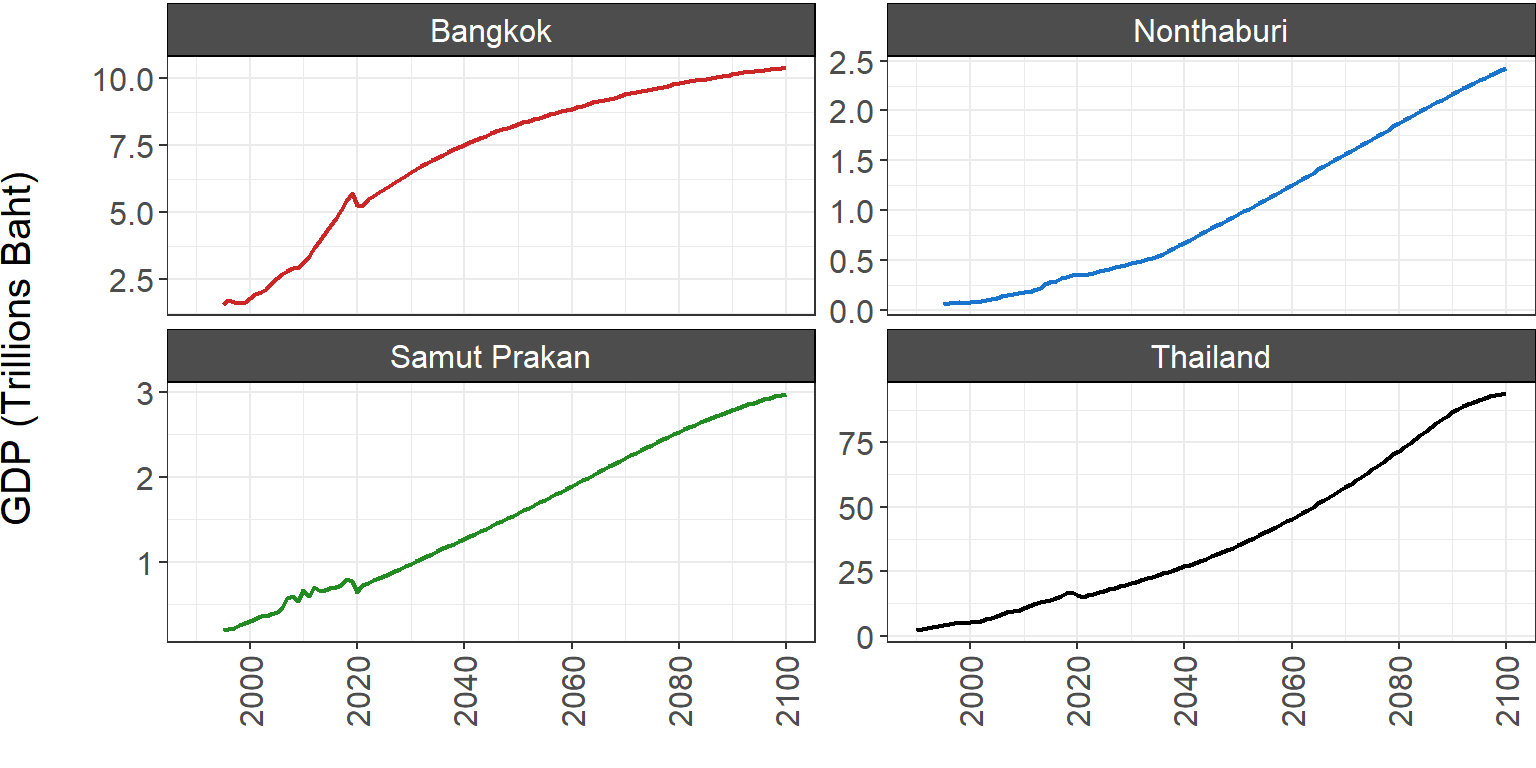
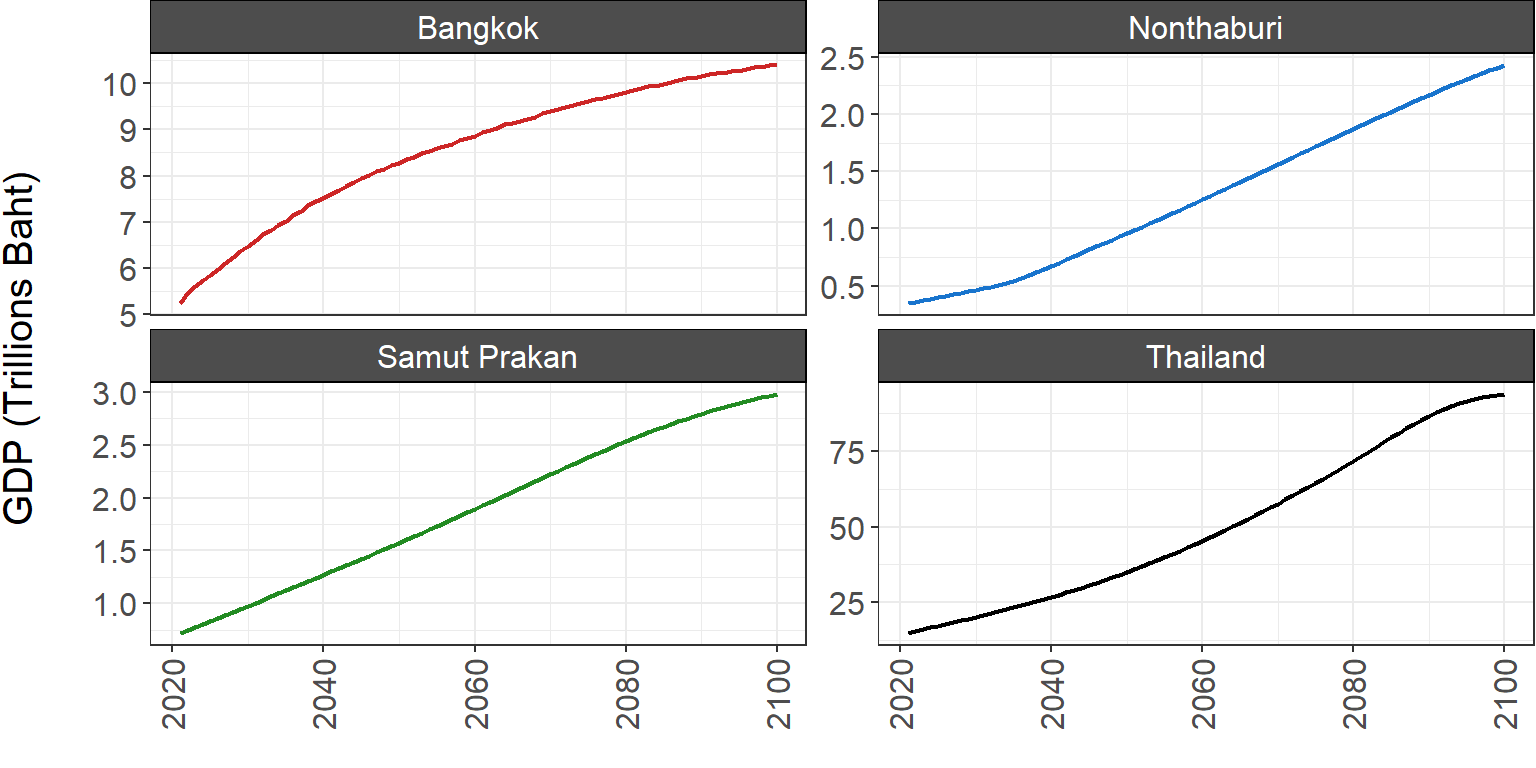
updating webpage Thailand

diff --git a/webpage/_site/thailand.html b/webpage/_site/thailand.html
@@ -546,11 +546,11 @@ td, th {
 <h2 number="5.2"><span class="header-section-number">5.2</span> Extended National Policies</h2>
 <!-------------------------->
 <p><strong>Extended National Policies Scenario:</strong> This scenario includes additional sustainable development measures that have been implemented in other countries and regions along vwith the plans and policies in the National Policies scenario. These include more aggresive power transitions, enhanced energy and emissions regulations, and economic incentives. The table below summarizes the additional policies incorporated in the Extended National Policies scenario. Note that this scenario also incorporates the national policies included in the Mandatory National Policies scenario.</p>
-<table style="width:76%;">
+<table style="width:75%;">
 <caption>Table 5.2.1. Policies included in the Extended National Policies scenario.</caption>
 <colgroup>
 <col width="31%" />
-<col width="44%" />
+<col width="43%" />
 </colgroup>
 <thead>
 <tr class="header">
@@ -562,23 +562,23 @@ td, th {
 <tr class="odd">
 <td>Energy Supply</td>
 <td><ul>
-<li>Power Development Plan 2018-2037 (bound capacity + target capacity)</li>
-<li>Renewable and Alternative Energy Development Plan 2018-2037 (bound capacity + target capacity)</li>
+<li>Increased RE and CCS</li>
+<li>Coal and gas development constraints</li>
 </ul></td>
 </tr>
 <tr class="even">
 <td>Transportation</td>
 <td><ul>
-<li>Measures to promote EV use</li>
-<li>Eco-driving promotion</li>
-<li>Public transit expansion Electric Vehicle Roadmap to increase electric proportion of vehicles in manufacturing</li>
+<li>Enhanced vehicle emissions standards</li>
+<li>Electric vehicle subsidies</li>
+<li>Fuel Economy Standards</li>
 </ul></td>
 </tr>
 <tr class="odd">
 <td>Buildings &amp; Industry</td>
 <td><ul>
-<li>Voluntary energy efficiency labeling</li>
-<li>Subsidies for equipment upgrades</li>
+<li>Enhanced Building Energy Codes</li>
+<li>Enhanced Minimum Energy Performance Standards</li>
 </ul></td>
 </tr>
 </tbody>
@@ -893,11 +893,18 @@ td, th {
 </div>
 <div id="future-projections-1" class="section level4 unnumbered">
 <h4 class="unnumbered">Future Projections</h4>
-<p>To project future GDP and GPP, we used a combination of NESDB projections and other assumptions. For GDP, NESDB has provided a projection through 2050 in Thailand’s Long Term Plan (LTP). Beyond 2050, we made an assumption that per capita GDP would reach 52,000 USD (at the 2005 price) by 2100 based on historical trajectories of several developed countries. We assumed that GPP future trajectories would vary between provinces, with Bangkok’s per capita GDP reaching around 70,000 USD (at the 2005 price) by 2100, consistent with income ranges of some high income cities at present. The plots below show estimated GDP and GPP from 1990 to 2100 based on these assumptions.</p>
+<p>To project future GDP and GPP, we used a combination of NESDB projections and other assumptions. For GDP, NESDB has provided a projection through 2050 in Thailand’s Long Term Plan (LTP). Beyond 2050, we made an assumption that per capita GDP would reach 52,000 USD (at the 2005 price) by 2100 based on historical trajectories of several developed countries. We assumed that GPP future trajectories would vary between provinces, with Bangkok’s per capita GDP reaching around 70,000 USD (at the 2005 price) by 2100, consistent with income ranges of some high income cities at present. The plots below show estimated GDP and GPP in THB from 2021 to 2100 based on these assumptions, as well as GDP/GPP growth rates during this period.</p>
 <div class="figure" style="text-align: center">
-<img src="thailand_files/figure-html/historical%20&%20future%20trends%20gdp%20baht-1.png" alt="Figure 9.1.2.3. **Historical and projected future GDP in Thailand and GPP in the MEA provinces.**" width="75%" />
+<img src="thailand_files/figure-html/historical%20&%20future%20trends%20gdp%20baht-1.png" alt="Figure 9.1.2.3. **Projected future GDP in Thailand and GPP in the MEA provinces.**" width="75%" />
 <p class="caption">
-Figure 9.1.2.3. <strong>Historical and projected future GDP in Thailand and GPP in the MEA provinces.</strong>
+Figure 9.1.2.3. <strong>Projected future GDP in Thailand and GPP in the MEA provinces.</strong>
+</p>
+</div>
+<p><br> <br></p>
+<div class="figure" style="text-align: center">
+<img src="thailand_files/figure-html/historical%20&%20future%20trends%20gdp%20growth%20rate%20baht-1.png" alt="Figure 9.1.2.4. **Projected future growth rates of GDP in Thailand and GPP in the MEA provinces.**" width="75%" />
+<p class="caption">
+Figure 9.1.2.4. <strong>Projected future growth rates of GDP in Thailand and GPP in the MEA provinces.</strong>
 </p>
 </div>
 <!-------------------------->
@@ -929,11 +936,18 @@ Figure 9.1.3.1. <strong>Per capita GDP from 1990 to 2019 at current market price
 </div>
 <div id="future-projections-2" class="section level4 unnumbered">
 <h4 class="unnumbered">Future Projections</h4>
-<p>The plot below shows per capita GDP/GPP from 1990 to 2100 for each region.</p>
+<p>The plot below shows per capita GDP/GPP (THB) and growth rates from 1990 to 2100 for each region.</p>
 <div class="figure" style="text-align: center">
-<img src="thailand_files/figure-html/historical%20&%20future%20trends%20pcgdp%20baht-1.png" alt="**Figure 9.1.3.3. Per capita GDP/GPP through 2100 in each region**" width="75%" />
+<img src="thailand_files/figure-html/future%20%20pcgdp%20baht-1.png" alt="**Figure 9.1.3.3. Per capita GDP/GPP through 2100 in each region**" width="75%" />
 <p class="caption">
 <strong>Figure 9.1.3.3. Per capita GDP/GPP through 2100 in each region</strong>
+</p>
+</div>
+<p><br> <br></p>
+<div class="figure" style="text-align: center">
+<img src="thailand_files/figure-html/future%20pcgdp%20growth%20rate%20baht-1.png" alt="Figure 9.1.3.4. **Projected future growth rates of per capita GDP in Thailand and per capita GPP in the MEA provinces.**" width="75%" />
+<p class="caption">
+Figure 9.1.3.4. <strong>Projected future growth rates of per capita GDP in Thailand and per capita GPP in the MEA provinces.</strong>
 </p>
 </div>
 <!-------------------------->
